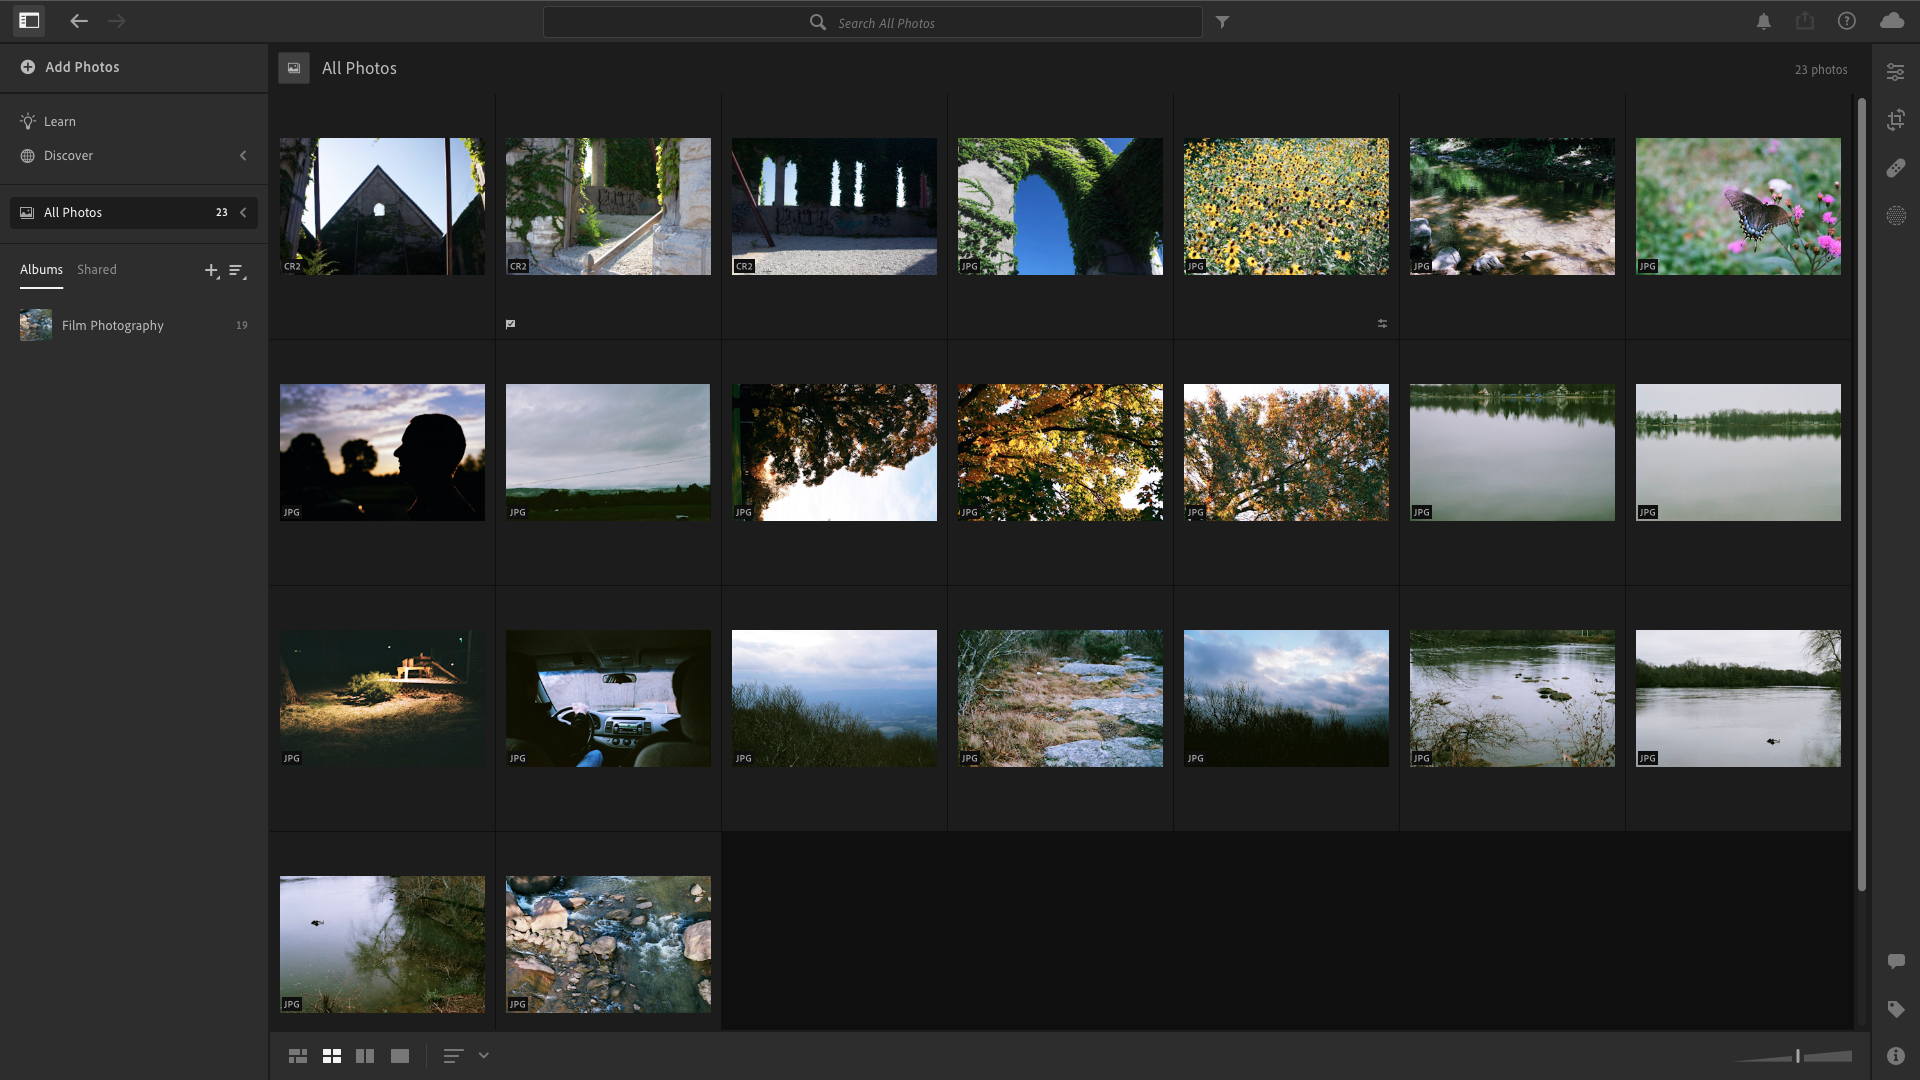
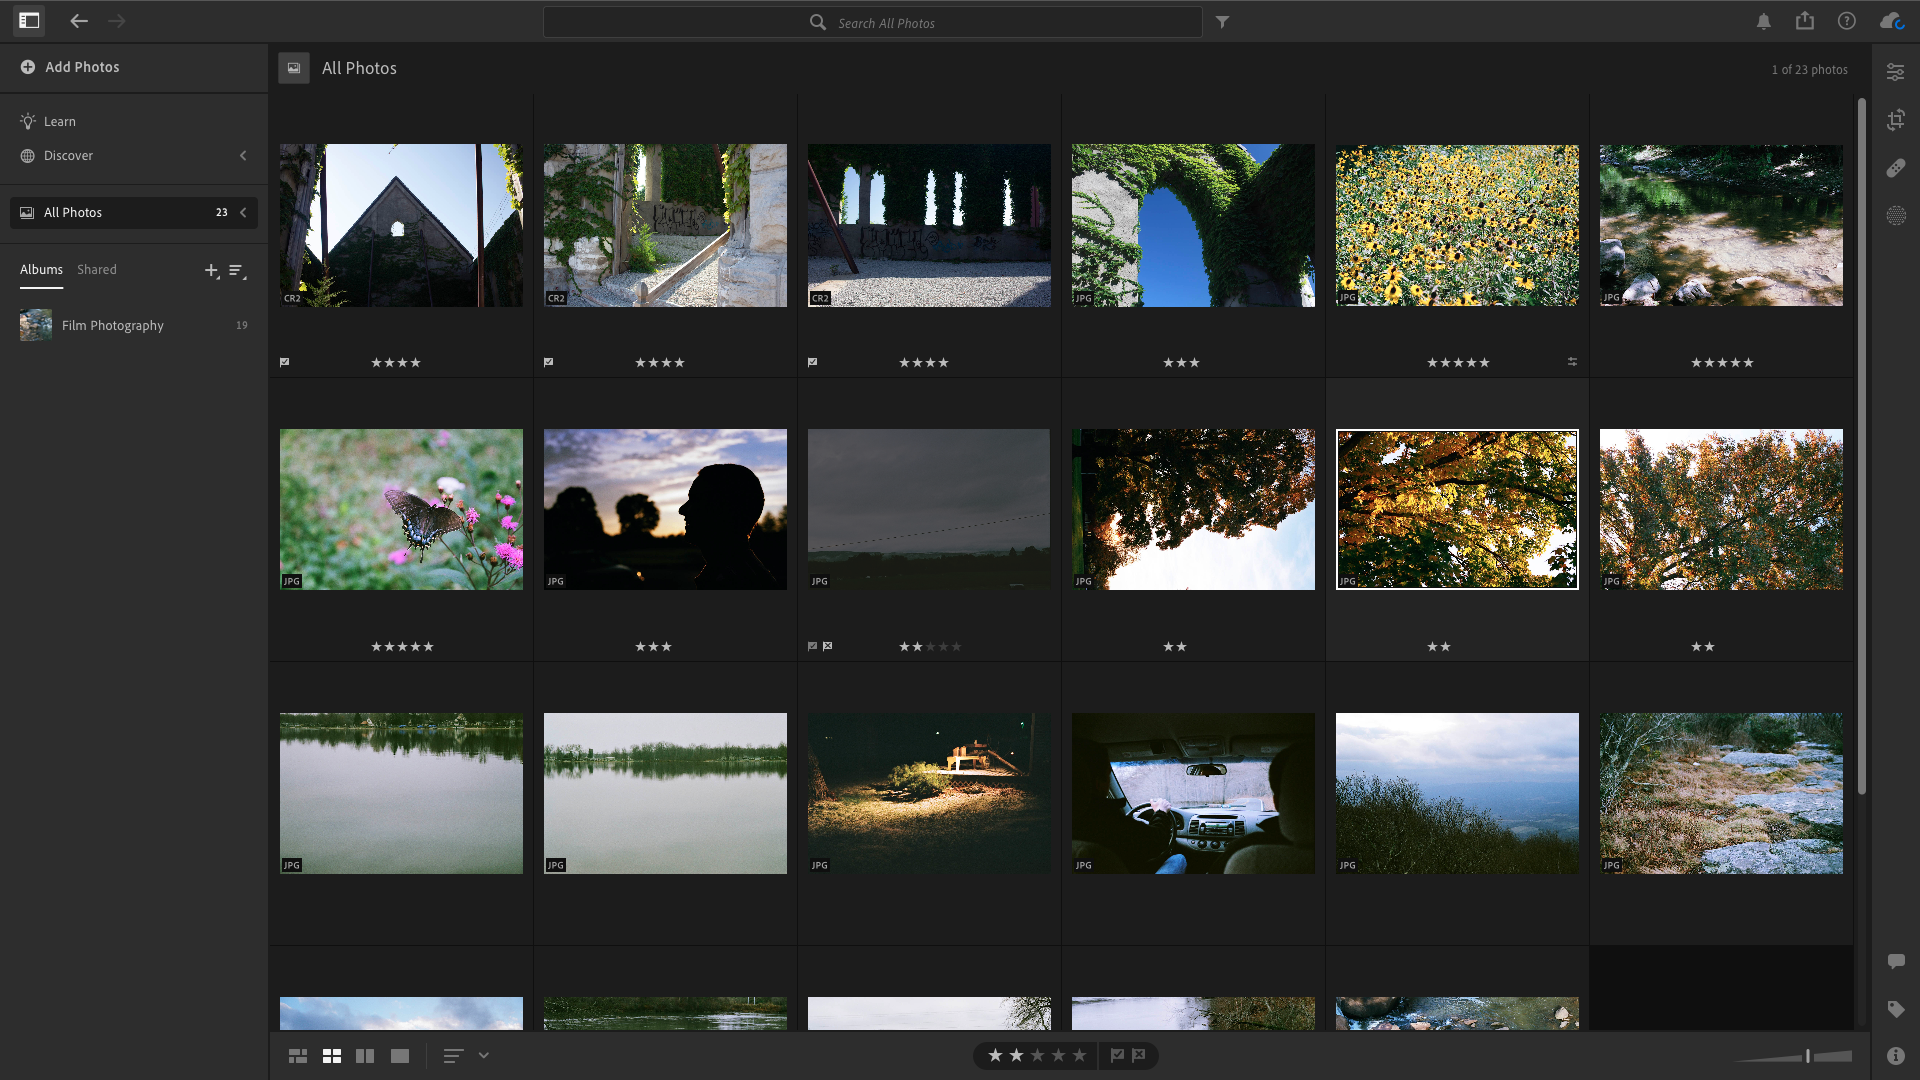
uploaded final files for View article
final screenshots and markdown file uploaded

diff --git a/library-views.md b/library-views.md
@@ -1,0 +1,96 @@
+# Viewing Photos in Your Library
+
+This article covers the different ways to view and sort photos in your Lightroom library.
+
+## The Different Gallery Views
+
+There are 4 different ways to view your photo gallery in Lightroom. I recommend using the different views and learning the benefits and limitations of each one.
+
+### 1. Photo Grid
+
+The Photo Grid is the default gallery view in Lightroom. In this view, all photos are evenly spaced on the screen with a thin border around them. This view is helpful for viewing your photos all at once in a semi-detailed way.
+
+![](/Users/matt-r/Desktop/lightroom-walkthroughs/1-navigating-lightroom/screenshots/1-lib-nav-photo-grid.png)
+
+> *You can switch between the Photo Grid and the Square Grid by pressing the `G` key.*
+
+### 2. Square Grid
+
+The Square Grid displays your photos at a smaller size but shows Flagging and Rating metadata for below each photo. This makes it easier to view your library, your ratings, and flagged photos at a glance.
+
+![](/Users/matt-r/Desktop/lightroom-walkthroughs/1-navigating-lightroom/screenshots/2-lib-nav-square-grid.png)
+
+> *You can switch between the Photo Grid and the Square Grid by pressing the `G` key.*
+
+### 3. Compare (Split View)
+
+The Compare view is used to compare two photos in your library. This is helpful if you have multiple shots of the same subject and want to see them side by side. 
+
+If you access the Compare view when you have a photo already selected, you will see it in the left position of this view. If you acccess the Compare view without having a photo selected, follow the directions below to select the photos you want to compare.
+
+![](/Users/matt-r/Desktop/lightroom-walkthroughs/1-navigating-lightroom/screenshots/3-lib-nav-compare-1.png)
+
+Click on any photo in your library to add it to the left space.
+
+![](/Users/matt-r/Desktop/lightroom-walkthroughs/1-navigating-lightroom/screenshots/3-lib-nav-compare-2.png)
+
+Click on any other photo to add it to the right space.
+
+![](/Users/matt-r/Desktop/lightroom-walkthroughs/1-navigating-lightroom/screenshots/3-lib-nav-compare-3.png)
+
+Now you can compare your photos.
+
+To change which photos are in this view, select either the right or left photo being compared by clicking it. Then click the photo you want to take its place in the filmstrip at the bottom of the screen.
+
+> *You can access the Compare view by pressing `Option + C (MacOS) or Alt + C (Windows)` on your keyboard.*
+
+### 4. Detail
+
+In the Detail view, you can view one photo up close. This is best for editing the photo or examining specific elements in a photo.
+
+![](/Users/matt-r/Desktop/lightroom-walkthroughs/1-navigating-lightroom/screenshots/4-lib-nav-detail.png)
+
+> *You can access the Detail view for any photo by double-clicking it or pressing the `D` key.*
+
+## Photo Sizing, Sorting, and Information
+
+In addition to the different view options, you can also adjust the size of the photos in your library, the order they appear, and the information associated with each photo.
+
+### Thumbnail Size Slider
+
+If you want to view your photos at a larger or smaller size, use the slider in the lower-right corner of the window to adjust the size of the photos in your library.
+
+![](/Users/matt-r/Desktop/lightroom-walkthroughs/1-navigating-lightroom/screenshots/gifs/6-lib-nav-size-slider.gif)
+
+### Sorting Menu
+
+Clicking on the menu to the right of the "Detail" view option will give you options for how to sort your library. 
+
+![](/Users/matt-r/Desktop/lightroom-walkthroughs/1-navigating-lightroom/screenshots/5-lib-nav-sorting-menu-edited.png)
+
+The options for sorting include:
+
+- Capture Date: When the photo was taken.
+- Import Date: When the photo was added to Lightroom.
+- Modified Date: When the photo was last edited.
+- File Name: Sort by alphabetical order based on file name. 
+- Star Rating: The rating assigned in Lightroom. 
+- Reverse Order: Reverse the order of the applied filter. (i.e. oldest to newest photo becomes newest to oldest photo; A to Z filename becomes Z to A filename.)
+
+### Photo Info
+
+Clicking the "I" icon in the lower-right corner of the screen will pull up the Info sidebar on the right side of the screen. This sidebar shows background information, called _**metadata**_, associated with your photo. This data is recorded by your digital camera when the photo is taken. 
+
+![](/Users/matt-r/Desktop/lightroom-walkthroughs/1-navigating-lightroom/screenshots/7-lib-nav-info.png)
+
+Lightroom displays data such as the settings used when taking the photo, the file name, and when the photo was taken. You can also add information related to the photo's title, caption, copyright, and location in the Info sidebar. 
+
+This sidebar also shows if the photo is synced and backed up with Adobe Cloud. 
+
+You can organize and make your photos easier to find by editing the information in this Info panel. 
+
+## Conclusion
+
+In this article, you learned about the different view options in Lightroom, how to adjust your view options, the basics of sorting your library, and how to view a photo's metadata. 
+
+Feel comfortable with navigating your library? In the next article, we'll take a closer look at how to use metadata to make searching for and filtering your photos easier.
